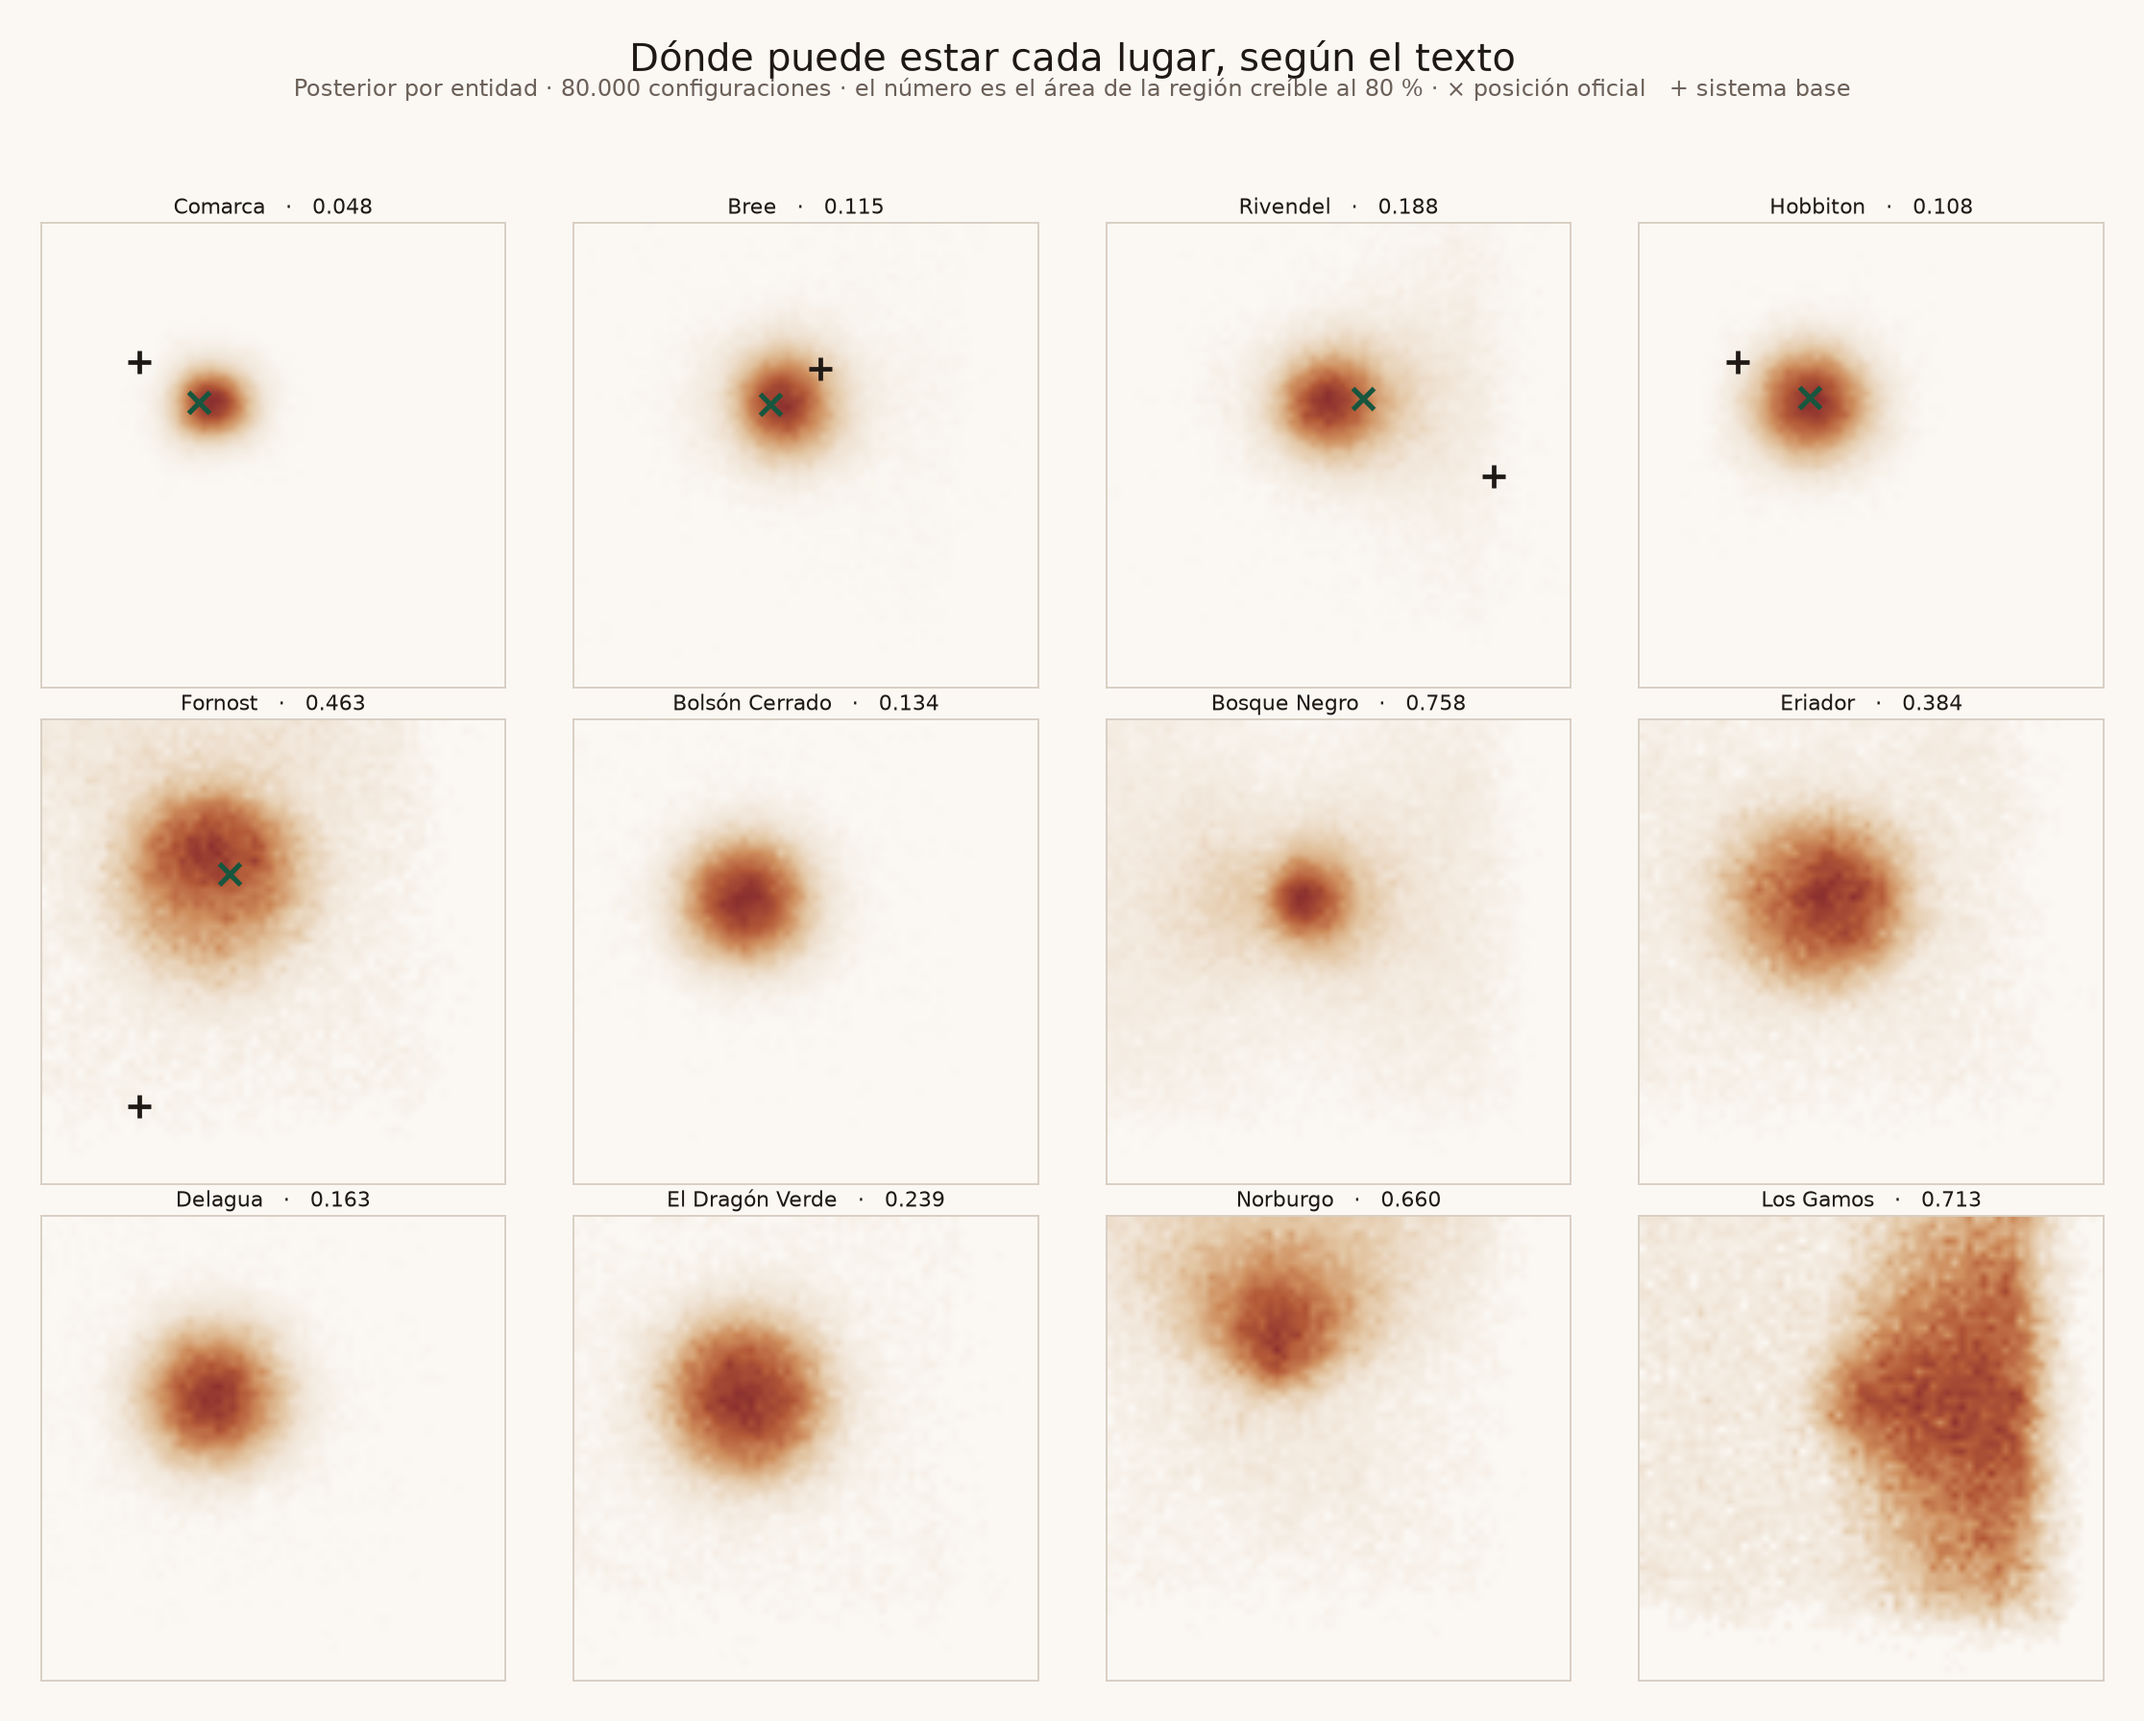
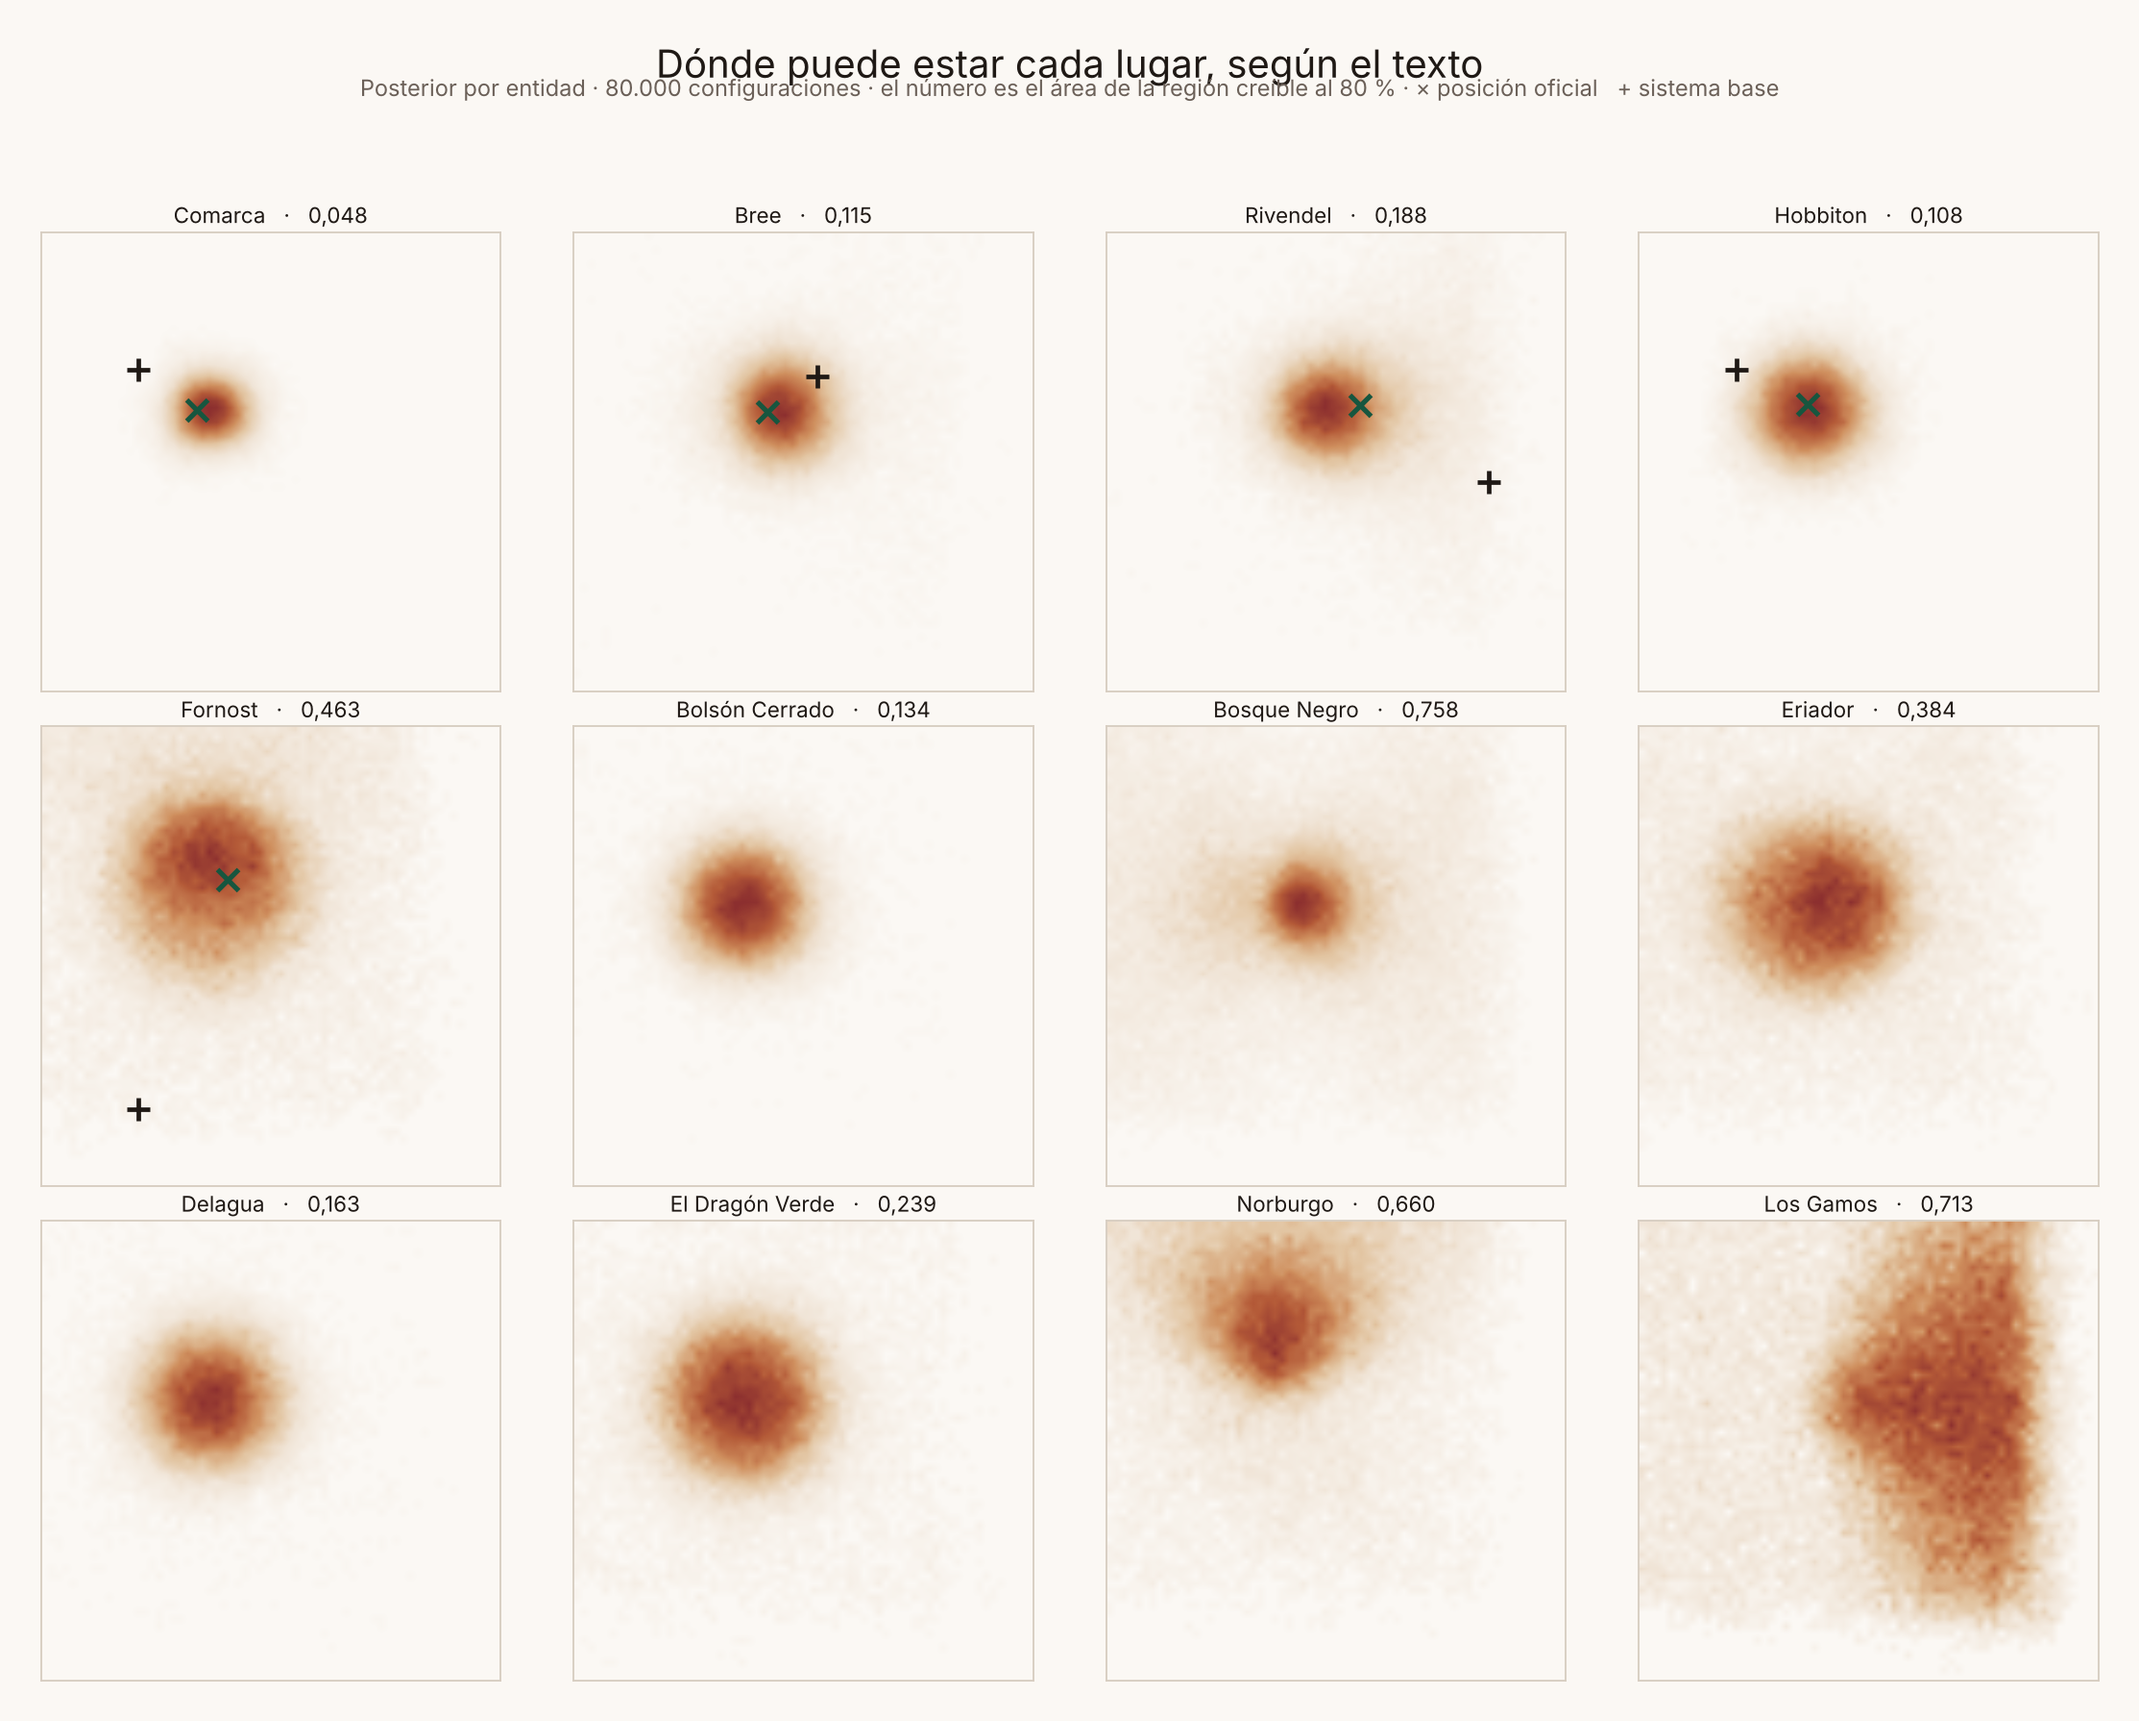
Avance del 19-11-2026

diff --git a/pipeline/5_techo_cobertura.py b/pipeline/5_techo_cobertura.py
@@ -47,8 +47,10 @@ ALIAS_OFICIALES = {
     "Monte Gundabad": ["gundabad"],
     "Salas de Thranduil": ["thranduil"],
     "Erebor": ["erebor", "montana solitaria"],
-    "Valle": ["valle"],
-    "Esgaroth": ["esgaroth", "ciudad del lago"],
+    # "valle" es tambien un sustantivo comun; Valle (Dale) se cuenta aparte,
+    # solo como nombre propio. Ver NOMBRE_PROPIO.
+    "Valle": [],
+    "Esgaroth": ["esgaroth", "esgarot", "ciudad del lago"],  # la traduccion escribe Esgarot
     "Fornost": ["fornost"],
     "Casa de Beorn": ["beorn"],
     "Puertos Grises": ["puertos grises", "mithlond"],
@@ -58,7 +60,8 @@ ALIAS_OFICIALES = {
     "Amon Sul": ["amon sul", "cima de los vientos"],
     "Rivendel": ["rivendel", "imladris"],
     "Tharbad": ["tharbad"],
-    "Puerta Oeste de Moria": ["moria", "khazad"],
+    # "moria" tambien es el verbo (la tarde moria) y esta dentro de "memoria".
+    "Puerta Oeste de Moria": ["khazad"],
     "Dol Guldur": ["dol guldur"],
     "Caras Galadhon": ["caras galadhon", "lothlorien", "lorien"],
     "Isengard": ["isengard", "orthanc"],
@@ -88,6 +91,25 @@ def plano(s):
     return "".join(c for c in s if unicodedata.category(c) != "Mn")
 
 
+#: Lugares cuyo nombre es tambien una palabra comun. Se cuentan sobre el
+#: texto con mayusculas, como nombre propio y excluyendo otros topónimos que
+#: empiezan igual (Valle Largo, Valle del Agua, Valle del Tornasauce...).
+NOMBRE_PROPIO = {
+    "Valle": r"(?<![A-Za-zÑñ])Valle(?! Largo)(?! del )(?![A-Za-zÑñ])",
+    "Puerta Oeste de Moria": r"(?<![A-Za-zÑñ])Moria(?![A-Za-zÑñ])",
+}
+
+
+def contar(texto_plano, alias):
+    """Ocurrencias de un alias como palabra completa, no como subcadena.
+
+    Contar subcadenas inflaba el recuento: "moria" aparece dentro de
+    "memoria" e "inmemorial", y "umbar" dentro de "zumbar".
+    """
+    patron = r"(?<![a-z0-9ñ])" + re.escape(plano(alias)) + r"(?![a-zñ])"
+    return len(re.findall(patron, texto_plano))
+
+
 def leer_texto(ruta):
     ruta = Path(ruta)
     if ruta.suffix.lower() == ".txt":
@@ -110,7 +132,11 @@ def main(ruta_texto=None):
             print(f"No encuentro: {r}")
             return 1
 
-    texto = plano(leer_texto(ruta_texto))
+    # Las lineas se unen para no perder nombres partidos por un salto.
+    crudo = re.sub(r"\s+", " ", leer_texto(ruta_texto))
+    crudo_sin_tildes = "".join(c for c in unicodedata.normalize("NFD", crudo)
+                               if unicodedata.category(c) != "Mn")
+    texto = plano(crudo)
     oficial = json.loads(RUTA_OFICIAL.read_text(encoding="utf-8"))["coords"]
     extraccion = json.loads(RUTA_EXTRACCION.read_text(encoding="utf-8"))
     extraidos = set(extraccion["lugares"])
@@ -122,7 +148,9 @@ def main(ruta_texto=None):
     mencionados, ausentes = [], []
     for nombre in oficial:
         vs = ALIAS_OFICIALES.get(nombre, [plano(nombre)])
-        n = sum(texto.count(plano(v)) for v in vs)
+        n = sum(contar(texto, v) for v in vs)
+        if nombre in NOMBRE_PROPIO:
+            n += len(re.findall(NOMBRE_PROPIO[nombre], crudo_sin_tildes))
         hallado = EQUIVALE_EN_EXTRACCION.get(nombre, nombre) in extraidos
         (mencionados if n > 0 else ausentes).append(
             {"lugar": nombre, "menciones": n, "extraido": hallado})
@@ -158,7 +186,7 @@ def main(ruta_texto=None):
     print("  La cobertura de nodos no mide la calidad de la extraccion:")
     print("  mide ademas cuanto se solapan el texto y el grafo de referencia.")
     print(f"  Con este par, {n_ofi - n_men} de {n_ofi} lugares del grafo son")
-    print("  inalcanzables, porque pertenecen a volumenes posteriores de la obra.")
+    print("  inalcanzables, porque pertenecen a partes posteriores de la obra.")
     print("  Medido contra lo que el texto si nombra, la extraccion del trabajo")
     print(f"  base acierta {100*n_hall/n_men:.0f} %, no {100*n_hall/n_ofi:.0f} %.")
 

diff --git a/pipeline/3_mapas_calor.py b/pipeline/3_mapas_calor.py
@@ -30,7 +30,7 @@ from matplotlib.colors import LinearSegmentedColormap  # noqa: E402
 RAIZ = Path(__file__).resolve().parents[1]
 sys.path.insert(0, str(RAIZ))
 
-from mapa_probabilistico.datos import guardar_figura  # noqa: E402
+from mapa_probabilistico.datos import coma, guardar_figura  # noqa: E402
 from mapa_probabilistico.metricas import (  # noqa: E402
     VENTANA, alinear_a_referencia, region_creible)
 
@@ -94,7 +94,7 @@ def main():
     for ax, nombre in zip(ejes, lugares):
         i = lugares.index(nombre)
         areas[nombre] = areas_fn(i)
-        panel(ax, M[:, i, :], f"{nombre}   ·   {areas[nombre]:.3f}",
+        panel(ax, M[:, i, :], f"{nombre}   ·   {coma(areas[nombre])}",
               verdad=V.get(nombre), base=B.get(nombre))
     for ax in ejes[n:]:
         ax.axis("off")
@@ -121,7 +121,7 @@ def main():
     for ax, nombre in zip(ejes, foco):
         i = lugares.index(nombre)
         panel(ax, M[:, i, :], nombre, verdad=V.get(nombre), base=B.get(nombre))
-        ax.set_title(f"{nombre}   ·   área creíble 80 % = {areas[nombre]:.3f}",
+        ax.set_title(f"{nombre}   ·   área creíble 80 % = {coma(areas[nombre])}",
                      fontsize=12, color=TINTA, pad=8)
     fig.suptitle("Un punto no es lo mismo que una creencia", fontsize=16, color=TINTA)
     fig.text(0.5, 0.905,

diff --git a/mapa_probabilistico/datos.py b/mapa_probabilistico/datos.py
@@ -335,3 +335,29 @@ def guardar_figura(fig, ruta, **kw):
         print(f"  Probablemente esta abierto en el visor de imagenes.")
         print(f"  Se guardo como {alt.name}. Cierra el visor y vuelve a correr.")
         return alt
+
+
+# --- formato numerico de las figuras ---------------------------------------
+#
+# El informe usa coma decimal (convencion del espanol). Las figuras deben
+# usar la misma, o el lector ve 0,048 en el texto y 0.048 en la figura.
+
+def coma(x, decimales=3):
+    """Numero con coma decimal: coma(0.0481) -> '0,048'."""
+    return f"{x:.{decimales}f}".replace(".", ",")
+
+
+def ejes_con_coma(*ejes):
+    """Hace que las marcas de los ejes usen coma decimal."""
+    from matplotlib.ticker import ScalarFormatter
+
+    class _Coma(ScalarFormatter):
+        def __call__(self, x, pos=None):
+            return super().__call__(x, pos).replace(".", ",")
+
+    for ax in ejes:
+        for eje in (ax.xaxis, ax.yaxis):
+            # Solo los ejes numericos: un eje con nombres (barras
+            # horizontales, por ejemplo) conserva sus etiquetas.
+            if type(eje.get_major_formatter()) is ScalarFormatter:
+                eje.set_major_formatter(_Coma())

diff --git a/pipeline/4_comparar.py b/pipeline/4_comparar.py
@@ -332,7 +332,7 @@ def main():
     ax.set_xlim(0.45, 1.0); ax.set_ylim(0, 1.05)
     ax.set_xlabel("nivel nominal", fontsize=9.5, color=TENUE)
     ax.set_ylabel("cobertura empírica", fontsize=9.5, color=TENUE)
-    ax.set_title(f"Calibración   ·   ECE = {ece:.3f}", fontsize=12, color=TINTA, pad=10)
+    ax.set_title(f"Calibración   ·   ECE = {datos.coma(ece)}", fontsize=12, color=TINTA, pad=10)
     ax.text(0.47, 0.06, "bajo la diagonal = confiado de más",
             fontsize=8.5, color=TENUE)
 
@@ -350,6 +350,7 @@ def main():
                  fontsize=12, color=TINTA, pad=10)
     ax.axvline(EPSILON, color=TINTA, lw=1.0, ls=":")
 
+    datos.ejes_con_coma(*ejes, ax2)
     for a_ in list(ejes) + [ax2]:
         for s in a_.spines.values():
             s.set_color("#D8CEC2")
